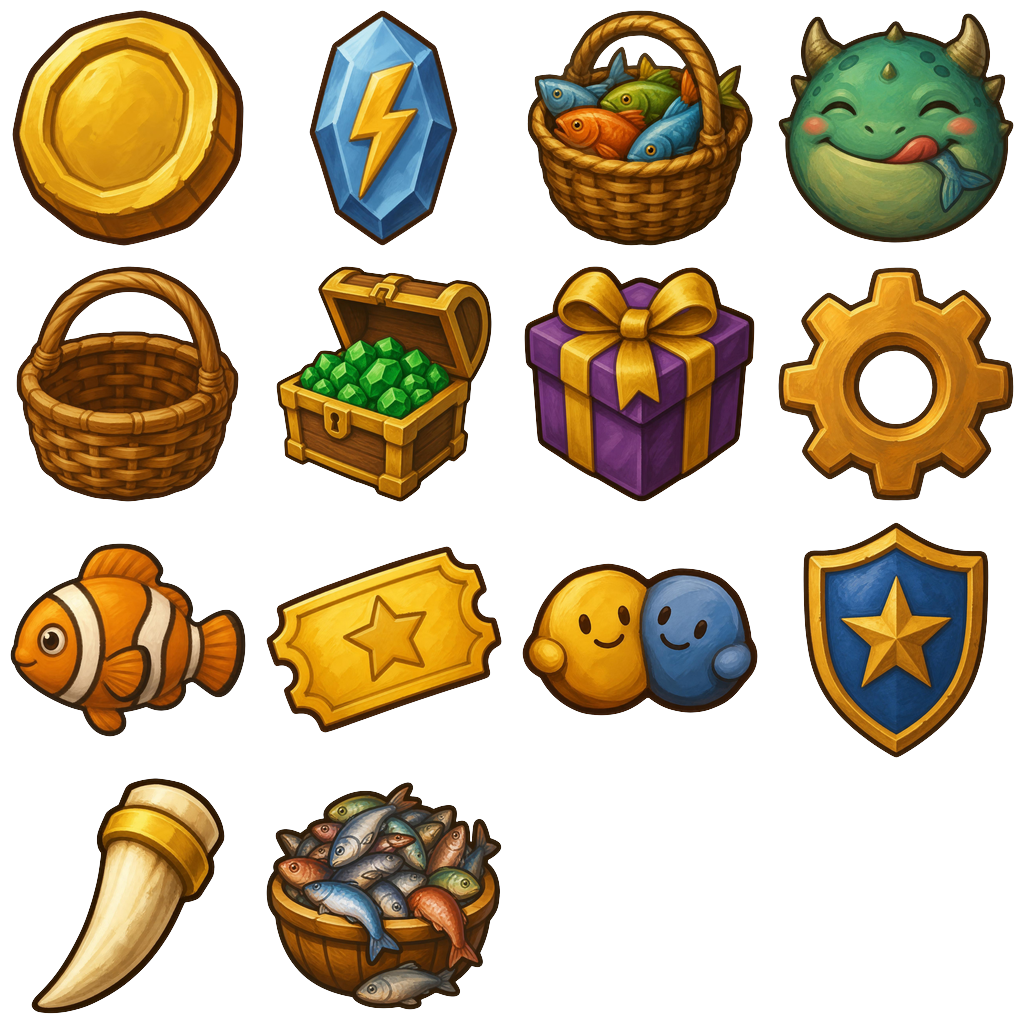
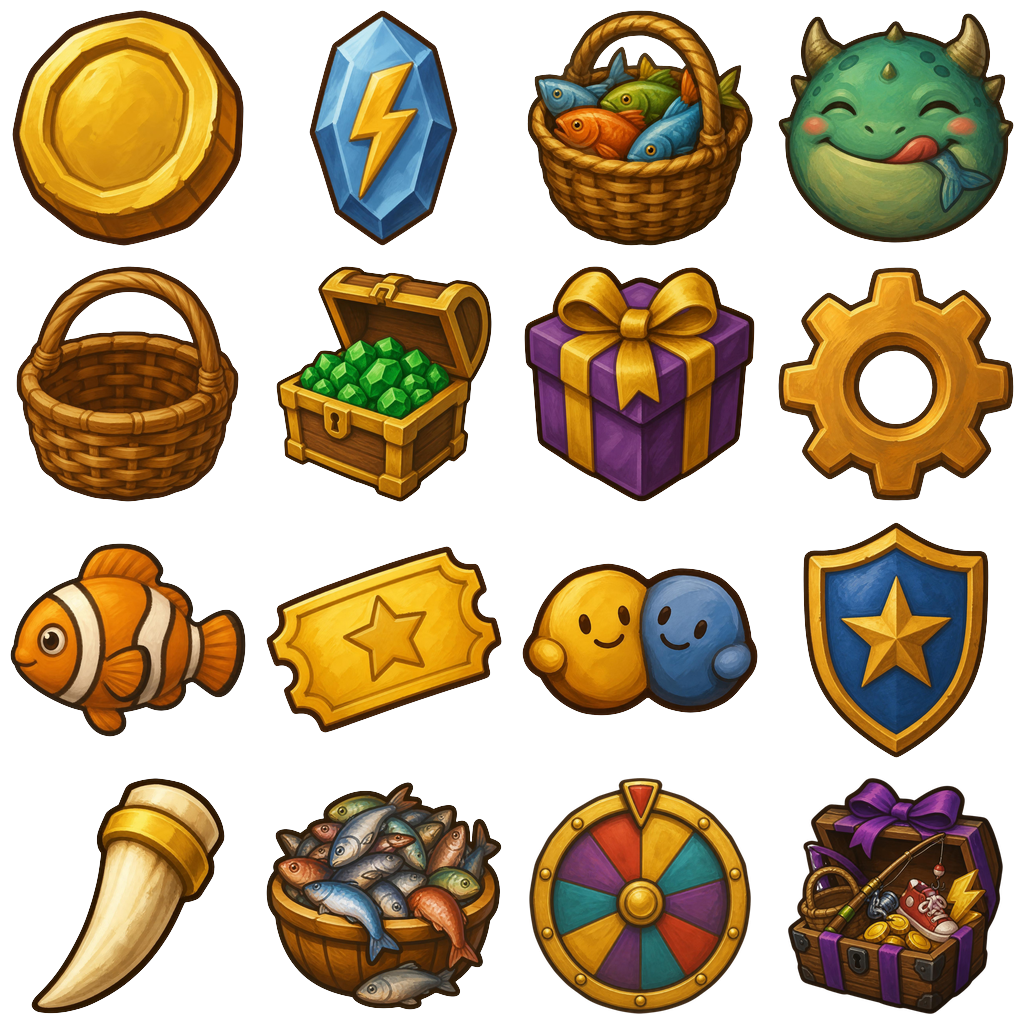
agrega los íconos de ruleta y pack de inicio y pasa el cartel de la cabeza a lava

Changed region(s): [[0.5, 0.75, 1.0, 1.0]]

diff --git a/docs/devlog.md b/docs/devlog.md
@@ -2070,3 +2070,17 @@ llenados" no tenía que ver. Eligió botones de casilla volcánica e íconos pin
 
 **Probado en Studio (Play):** el HUD con los íconos nuevos, sin errores.
 Checklist: build, selene (21 avisos) y stylua.
+
+## 2026-10-17 (18) — Ruleta, pack de inicio y cartel de lava
+
+**Qué se hizo (pedido del usuario):**
+- **Ruleta:** usaba el mismo cofre que TIENDA. Tiene ícono propio, una rueda pintada a mano
+  (Canva, media `MAHYVJpMS6g`), en la hoja HUD celda 14.
+- **Pack de inicio:** un cofre con lazo violeta y el equipo adentro, pintado a mano (media
+  `MAHYVEJ9RZ0`), en la celda 15. El popup lo usa en vez del regalo rosa.
+- **Hoja HUD:** se volvió a subir: `rbxassetid://110280301406648`.
+- **Cartel sobre la cabeza** (`OverheadBadges`): la placa es de lava, con `Kit.skin` "lava"
+  como TIENDA. El ícono de monstruos es el monstruo alimentado del HUD (`fed` apunta a la celda
+  3), no el cuenco de peces.
+
+**Probado en Studio (Play):** el cartel, la ruleta del HUD y el pack de inicio, sin errores.
